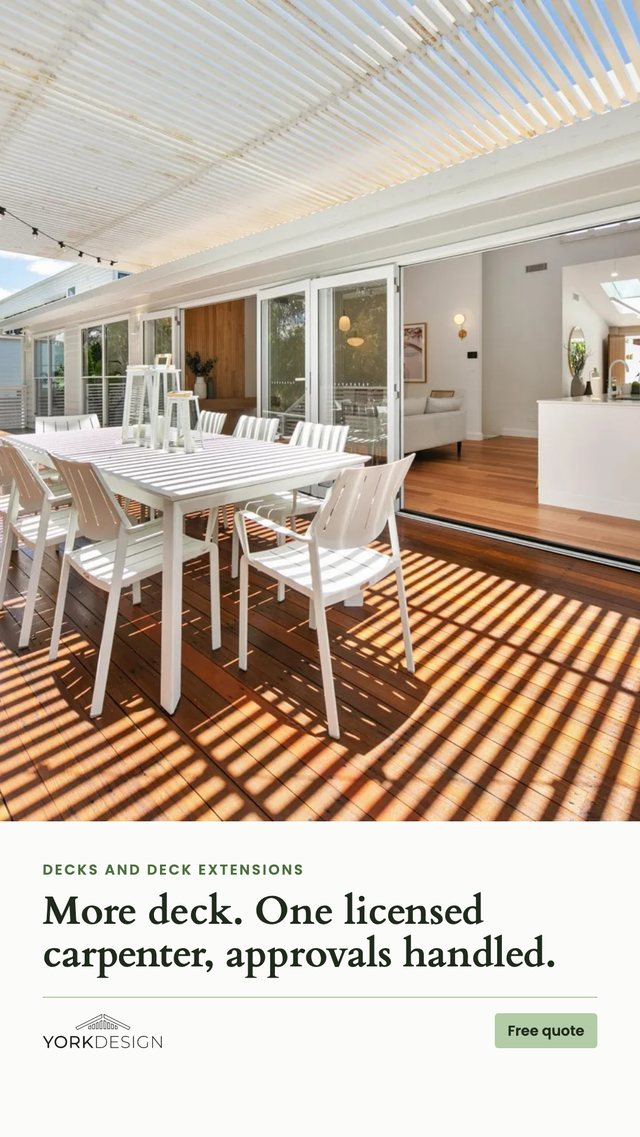
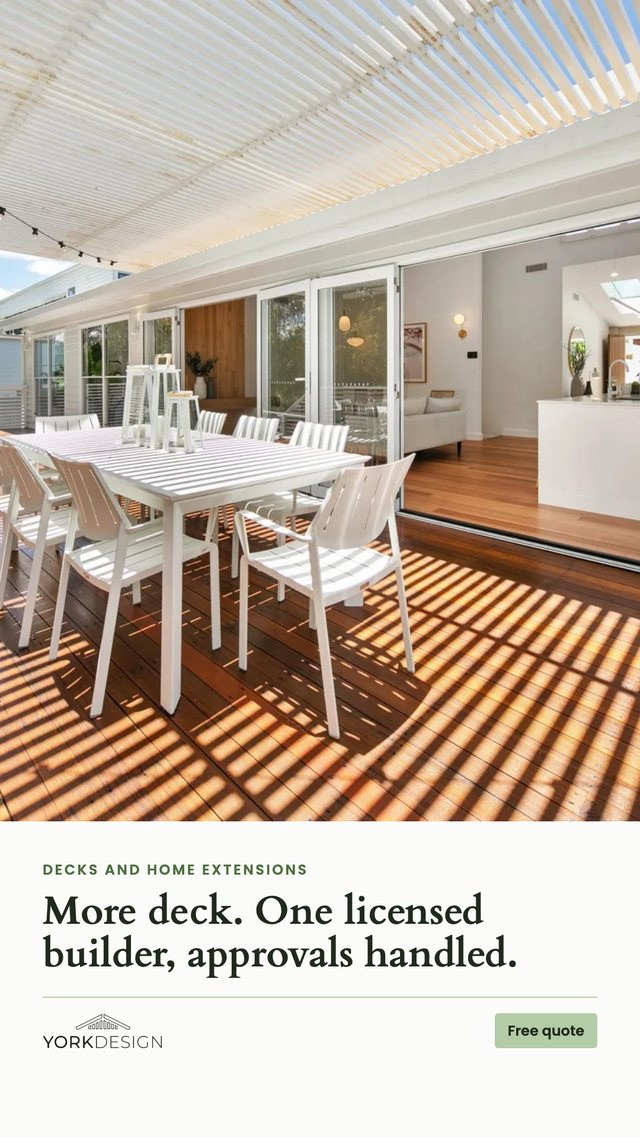
York Design approval page: Tish's first round of feedback (ad copy, decks and extensions, licensed builder)

Changed region(s): [[0.0625, 0.8004, 0.875, 0.8619], [0.25, 0.7388, 0.4688, 0.7696]]

diff --git a/clients/york-design/index.html b/clients/york-design/index.html
@@ -77,7 +77,7 @@ footer{margin-top:64px;padding-top:18px;border-top:1px solid var(--line);color:v
 <div class="top"><span>Prepared for Letitia York · York Design</span><span>Nunya Bunya · 12 October 2026</span></div>
 <header class="hero">
 <h1>Your ads, pages and profiles, ready for your OK</h1>
-<p>Everything here uses your own project photos and the reviews on yorkdesign.com.au. Two ads run on Facebook and Instagram: one for kitchen, bathroom and laundry renovations, one for decks and deck extensions. Each sends people to its own page with a quote form that comes straight to you.</p>
+<p>Everything here uses your own project photos and the reviews on yorkdesign.com.au. Two ads run on Facebook and Instagram: one for kitchen, bathroom and laundry renovations, one for decks and home extensions. Each sends people to its own page with a quote form that comes straight to you.</p>
 </header>
 <div class="how"><b>How to approve</b><span>Reply to Ben's email or text him. "All approved" is enough. To change something, quote its code, for example: "D6, change the last line" or "A2, change the headline to…"</span></div>
 <nav class="toc" aria-label="Sections"><a href="#ads">A · The two ads</a><a href="#pages">B · Landing pages</a><a href="#profiles">C · Your profiles</a><a href="#posts">D · First posts</a><a href="#need">What we need from you</a></nav>
@@ -90,18 +90,18 @@ footer{margin-top:64px;padding-top:18px;border-top:1px solid var(--line);color:v
   <div class="ad-imgs"><figure><img src="/clients/york-design/i/ad-renovations.jpg" alt="The ad in the Facebook feed" width="1064" height="1800"><figcaption>In the Facebook and Instagram feed</figcaption></figure>
   <figure><img src="/clients/york-design/i/renovations-story.jpg" alt="The ad in Stories" width="640" height="1138"><figcaption>In Stories and Reels</figcaption></figure></div>
   <div class="ad-copy">
-    <p class="label">Full ad text</p><div class="copy"><p>Kitchens, bathrooms and laundries usually pass between a designer, a cabinet maker, a builder and five other trades. With York Design, one person designs it, books every trade and is on site building it.</p><p>Letitia (Tish) York is a licensed carpenter with interior design qualifications and 18 renovated homes behind her. She specialises in Queenslanders.</p><p>Working within about 10km of Dutton Park and Moorooka. Two new projects a month.</p><p>QBCC licence 15367237</p></div>
+    <p class="label">Full ad text</p><div class="copy"><p>Kitchens, bathrooms and laundries usually pass between a designer, a cabinet maker, a builder and five other trades. With York Design, one person designs it, books every trade and is on site building it.</p><p>Based in Brisbane&#x27;s inner south, Letitia (Tish) York is a licensed builder and carpenter, qualified project manager and interior designer. She specialises in Queenslanders and post-war homes.</p><p>QBCC licence 15367237</p></div>
     <dl><dt>Headline</dt><dd>Kitchen, bathroom and laundry renovations</dd><dt>Button</dt><dd>Get quote</dd>
     <dt>Clicks go to</dt><dd><a href="https://york-design-lp.vercel.app/renovations">Your renovations page</a></dd></dl>
   </div>
 </div></article><article class="item" id="a2">
-<header class="item-h"><span class="code">A2</span><h3>Decks and deck extensions, built by Tish</h3></header>
+<header class="item-h"><span class="code">A2</span><h3>Decks and home extensions built by Tish</h3></header>
 <div class="ad">
   <div class="ad-imgs"><figure><img src="/clients/york-design/i/ad-decks.jpg" alt="The ad in the Facebook feed" width="1064" height="1800"><figcaption>In the Facebook and Instagram feed</figcaption></figure>
   <figure><img src="/clients/york-design/i/decks-story.jpg" alt="The ad in Stories" width="640" height="1138"><figcaption>In Stories and Reels</figcaption></figure></div>
   <div class="ad-copy">
-    <p class="label">Full ad text</p><div class="copy"><p>Thinking about extending the deck, or replacing the one that&#x27;s past it?</p><p>Letitia (Tish) York is a licensed carpenter who specialises in Queenslanders. She designs the deck with you, works out the footings and approvals, and builds it with her own team.</p><p>&quot;Tish worked with us very effectively to help us make decisions keeping in mind new regulations and who would need to be engaged for approvals.&quot; Bruce, Ashgrove</p><p>Working within about 10km of Dutton Park and Moorooka.</p><p>QBCC licence 15367237</p></div>
-    <dl><dt>Headline</dt><dd>Decks and deck extensions, built by Tish</dd><dt>Button</dt><dd>Get quote</dd>
+    <p class="label">Full ad text</p><div class="copy"><p>Thinking about a new or revamped deck or home renovation/extension?</p><p>Letitia (Tish) York is a licensed builder who specialises in Queenslanders and post-war homes. She designs the deck with you, works out the footings and approvals, and builds it with her own team.</p><p>&quot;Tish worked with us very effectively to help us make decisions keeping in mind new regulations and who would need to be engaged for approvals.&quot; Bruce, Ashgrove</p><p>QBCC licence 15367237</p></div>
+    <dl><dt>Headline</dt><dd>Decks and home extensions built by Tish</dd><dt>Button</dt><dd>Get quote</dd>
     <dt>Clicks go to</dt><dd><a href="https://york-design-lp.vercel.app/decks">Your deck page</a></dd></dl>
   </div>
 </div></article></section>
@@ -112,8 +112,8 @@ footer{margin-top:64px;padding-top:18px;border-top:1px solid var(--line);color:v
 <header class="item-h"><span class="code">B1</span><h3>Kitchen, bathroom and laundry page</h3><a class="open" href="https://york-design-lp.vercel.app/renovations">Open the live page</a></header>
 <div class="lp"><img class="lp-d" src="/clients/york-design/i/lp-renovations.jpg" alt="Kitchen, bathroom and laundry page on a computer" width="1100" height="693"><img class="lp-m" src="/clients/york-design/i/lpm-renovations.jpg" alt="Kitchen, bathroom and laundry page on a phone" width="390" height="844"></div>
 </article><article class="item" id="b2">
-<header class="item-h"><span class="code">B2</span><h3>Decks and deck extensions page</h3><a class="open" href="https://york-design-lp.vercel.app/decks">Open the live page</a></header>
-<div class="lp"><img class="lp-d" src="/clients/york-design/i/lp-decks.jpg" alt="Decks and deck extensions page on a computer" width="1100" height="693"><img class="lp-m" src="/clients/york-design/i/lpm-decks.jpg" alt="Decks and deck extensions page on a phone" width="390" height="844"></div>
+<header class="item-h"><span class="code">B2</span><h3>Decks and home extensions page</h3><a class="open" href="https://york-design-lp.vercel.app/decks">Open the live page</a></header>
+<div class="lp"><img class="lp-d" src="/clients/york-design/i/lp-decks.jpg" alt="Decks and home extensions page on a computer" width="1100" height="693"><img class="lp-m" src="/clients/york-design/i/lpm-decks.jpg" alt="Decks and home extensions page on a phone" width="390" height="844"></div>
 </article></section>
 
 <section id="profiles"><h2>C · Your social profiles</h2>
